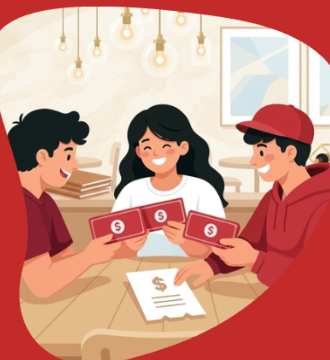
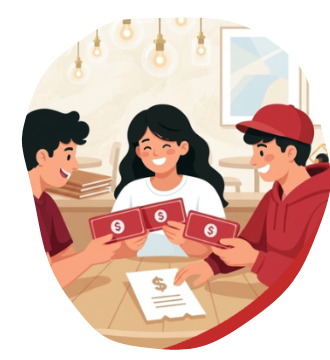
fixed some components on the front-end

Changed region(s): [[0.0, 0.0, 1.0, 1.0]]

diff --git a/src/app/page.tsx b/src/app/page.tsx
@@ -1,31 +1,25 @@
-import { LVMark } from "@/components/brand/LVMark";
+import { FriendsHero } from "@/components/brand/FriendsHero";
 import { Logo } from "@/components/brand/Logo";
 import Link from "next/link";
 
 export default function LandingPage() {
   return (
-    <div className="min-h-dvh bg-splits-red">
-      <main className="relative mx-auto flex min-h-dvh w-full max-w-[430px] flex-col items-center px-6 pb-10 pt-[max(2.5rem,env(safe-area-inset-top))] text-white">
-      <div className="flex w-full flex-1 flex-col items-center justify-center">
-        {/* eslint-disable-next-line @next/next/no-img-element */}
-        <img
-          src="/brand/friends.png"
-          alt="Friends splitting a bill around a cafe table"
-          className="w-[92%] max-w-[340px] select-none"
-        />
-        <Logo light className="mt-1 text-[52px] leading-none" />
-        <p className="mt-3 text-center text-[15px] font-normal tracking-wide text-white">
-          Making every bill splitting simple
-        </p>
-      </div>
-      <Link
-        href="/sign-up"
-        className="mb-8 inline-flex h-[52px] w-[78%] max-w-[280px] items-center justify-center rounded-full bg-[#f4f4f4] text-[17px] font-semibold text-splits-red"
-      >
-        Get Started
-      </Link>
-      <LVMark light />
-    </main>
+    <div className="flex h-dvh min-h-dvh flex-col bg-splits-red">
+      <main className="relative mx-auto flex h-full w-full max-w-[430px] flex-col items-center px-6 pb-10 pt-[max(2.5rem,env(safe-area-inset-top))] text-white">
+        <div className="flex w-full flex-1 flex-col items-center justify-center">
+          <FriendsHero />
+          <Logo light className="mt-1 text-[52px] leading-none" />
+          <p className="mt-3 text-center text-[15px] font-normal tracking-wide text-white">
+            Making every bill splitting simple
+          </p>
+        </div>
+        <Link
+          href="/sign-up"
+          className="mb-8 inline-flex h-[52px] w-[78%] max-w-[280px] items-center justify-center rounded-full bg-[#f4f4f4] text-[17px] font-semibold text-splits-red"
+        >
+          Get Started
+        </Link>
+      </main>
     </div>
   );
 }

diff --git a/src/components/auth/SignInForm.tsx b/src/components/auth/SignInForm.tsx
@@ -8,6 +8,7 @@ import { AuthShell } from "@/components/auth/AuthShell";
 import { SocialAuth } from "@/components/auth/SocialAuth";
 import { Button } from "@/components/ui/Button";
 import { TextField } from "@/components/ui/TextField";
+import { setRememberPreference } from "@/lib/auth/remember";
 import { friendlyError } from "@/lib/errors";
 import { createClient } from "@/lib/supabase/client";
 import { firstZodError, signInSchema } from "@/lib/validation";
@@ -19,6 +20,7 @@ export function SignInForm() {
   const [error, setError] = useState<string | null>(null);
   const [fieldErrors, setFieldErrors] = useState<Record<string, string>>({});
   const [loading, setLoading] = useState(false);
+  const [remember, setRemember] = useState(true);
 
   async function onSubmit(formData: FormData) {
     setError(null);
@@ -45,6 +47,7 @@ export function SignInForm() {
         password: parsed.data.password,
       });
       if (signInError) throw signInError;
+      setRememberPreference(remember);
       router.replace(next);
       router.refresh();
     } catch (err) {
@@ -77,7 +80,17 @@ export function SignInForm() {
             required
             error={fieldErrors.password}
           />
-          <div className="mt-2 text-right">
+          <div className="mt-3 flex items-center justify-between gap-3">
+            <label className="flex cursor-pointer items-center gap-2 text-[13px] font-medium text-splits-red">
+              <input
+                type="checkbox"
+                name="remember"
+                checked={remember}
+                onChange={(event) => setRemember(event.target.checked)}
+                className="h-4 w-4 rounded border-[#c8c8c8] accent-splits-red"
+              />
+              Remember me
+            </label>
             <Link href="/forgot-password" className="text-[13px] font-medium text-splits-red">
               Forgot Password?
             </Link>

diff --git a/src/components/auth/AuthShell.tsx b/src/components/auth/AuthShell.tsx
@@ -1,5 +1,4 @@
 import { Logo } from "@/components/brand/Logo";
-import { LVMark } from "@/components/brand/LVMark";
 import { Wave } from "@/components/brand/Wave";
 import type { ReactNode } from "react";
 
@@ -13,20 +12,21 @@ export function AuthShell({
   return (
     <div className="min-h-dvh bg-white">
       <main className="relative mx-auto flex min-h-dvh w-full max-w-[430px] flex-col overflow-hidden bg-white">
-        <div className="relative h-[32dvh] min-h-[200px] max-h-[280px] shrink-0 bg-splits-red">
-          <Logo
-            light
-            className="absolute right-3 top-[40%] text-[72px] leading-none"
-            style={{ writingMode: "vertical-rl", transform: "rotate(180deg)" }}
-          />
-          <Wave className="absolute inset-x-0 bottom-0 h-[72px]" />
+        <div className="relative h-[44dvh] min-h-[300px] max-h-[390px] shrink-0 overflow-hidden bg-splits-red">
+          <div className="absolute right-0 top-[66%] h-20 w-20 -translate-y-1/2">
+            <Logo
+              light
+              className="absolute left-1/2 top-1/2 whitespace-nowrap text-[80px] leading-none tracking-[-0.04em]"
+              style={{ transform: "translate(-50%, -50%) rotate(270deg)" }}
+            />
+          </div>
+          <Wave className="pointer-events-none absolute inset-x-0 bottom-0 z-10 h-[108px]" />
         </div>
-        <section className="relative flex flex-1 flex-col bg-white px-8 pb-8 pt-0">
+        <section className="relative z-10 flex flex-1 flex-col bg-white px-8 pb-8 pt-1">
           <h1 className="text-[30px] font-extrabold leading-none text-splits-red">
             {title}
           </h1>
           <div className="mt-6">{children}</div>
-          <LVMark />
         </section>
       </main>
     </div>

diff --git a/src/lib/auth/remember.ts b/src/lib/auth/remember.ts
@@ -1,0 +1,24 @@
+const REMEMBER_KEY = "splits-remember-me";
+const SESSION_ALIVE_KEY = "splits-session-alive";
+
+export function getRememberPreference() {
+  if (typeof window === "undefined") return true;
+  return localStorage.getItem(REMEMBER_KEY) !== "0";
+}
+
+export function setRememberPreference(remember: boolean) {
+  localStorage.setItem(REMEMBER_KEY, remember ? "1" : "0");
+  if (remember) {
+    sessionStorage.removeItem(SESSION_ALIVE_KEY);
+  } else {
+    sessionStorage.setItem(SESSION_ALIVE_KEY, "1");
+  }
+}
+
+export function shouldClearSession() {
+  if (typeof window === "undefined") return false;
+  return (
+    localStorage.getItem(REMEMBER_KEY) === "0" &&
+    sessionStorage.getItem(SESSION_ALIVE_KEY) !== "1"
+  );
+}

diff --git a/src/app/layout.tsx b/src/app/layout.tsx
@@ -1,5 +1,6 @@
 import type { Metadata, Viewport } from "next";
 import { Inter } from "next/font/google";
+import { RememberSession } from "@/components/auth/RememberSession";
 import "./globals.css";
 
 const inter = Inter({
@@ -39,6 +40,7 @@ export default function RootLayout({ children }: LayoutProps<"/">) {
   return (
     <html lang="en" className={`${inter.variable} h-full antialiased`}>
       <body className="min-h-full bg-white font-sans text-splits-ink">
+        <RememberSession />
         {children}
       </body>
     </html>

diff --git a/src/components/auth/RememberSession.tsx b/src/components/auth/RememberSession.tsx
@@ -1,0 +1,20 @@
+"use client";
+
+import { useEffect } from "react";
+import { shouldClearSession } from "@/lib/auth/remember";
+import { createClient } from "@/lib/supabase/client";
+
+export function RememberSession() {
+  useEffect(() => {
+    if (!shouldClearSession()) return;
+
+    const supabase = createClient();
+    void supabase.auth.signOut().then(() => {
+      if (window.location.pathname !== "/sign-in") {
+        window.location.replace("/sign-in");
+      }
+    });
+  }, []);
+
+  return null;
+}

diff --git a/src/components/brand/Wave.tsx b/src/components/brand/Wave.tsx
@@ -2,12 +2,12 @@ export function Wave({ className = "" }: { className?: string }) {
   return (
     <svg
       className={`block w-full ${className}`}
-      viewBox="0 0 390 120"
+      viewBox="0 0 390 140"
       preserveAspectRatio="none"
       aria-hidden="true"
     >
       <path
-        d="M0 8C46 10 92 18 138 36c52 20 88 48 150 72 28 11 54 16 102 20V120H0V8Z"
+        d="M0 22C48 20 86 24 124 38c48 18 86 48 132 74 32 18 64 30 134 36V140H0V22Z"
         fill="white"
       />
     </svg>

diff --git a/src/components/brand/FriendsHero.tsx b/src/components/brand/FriendsHero.tsx
@@ -1,0 +1,10 @@
+export function FriendsHero({ className = "" }: { className?: string }) {
+  return (
+    // eslint-disable-next-line @next/next/no-img-element
+    <img
+      src="/brand/friends-blob.png"
+      alt="Friends splitting a bill around a cafe table"
+      className={`h-auto w-[90%] max-w-[340px] select-none ${className}`}
+    />
+  );
+}
